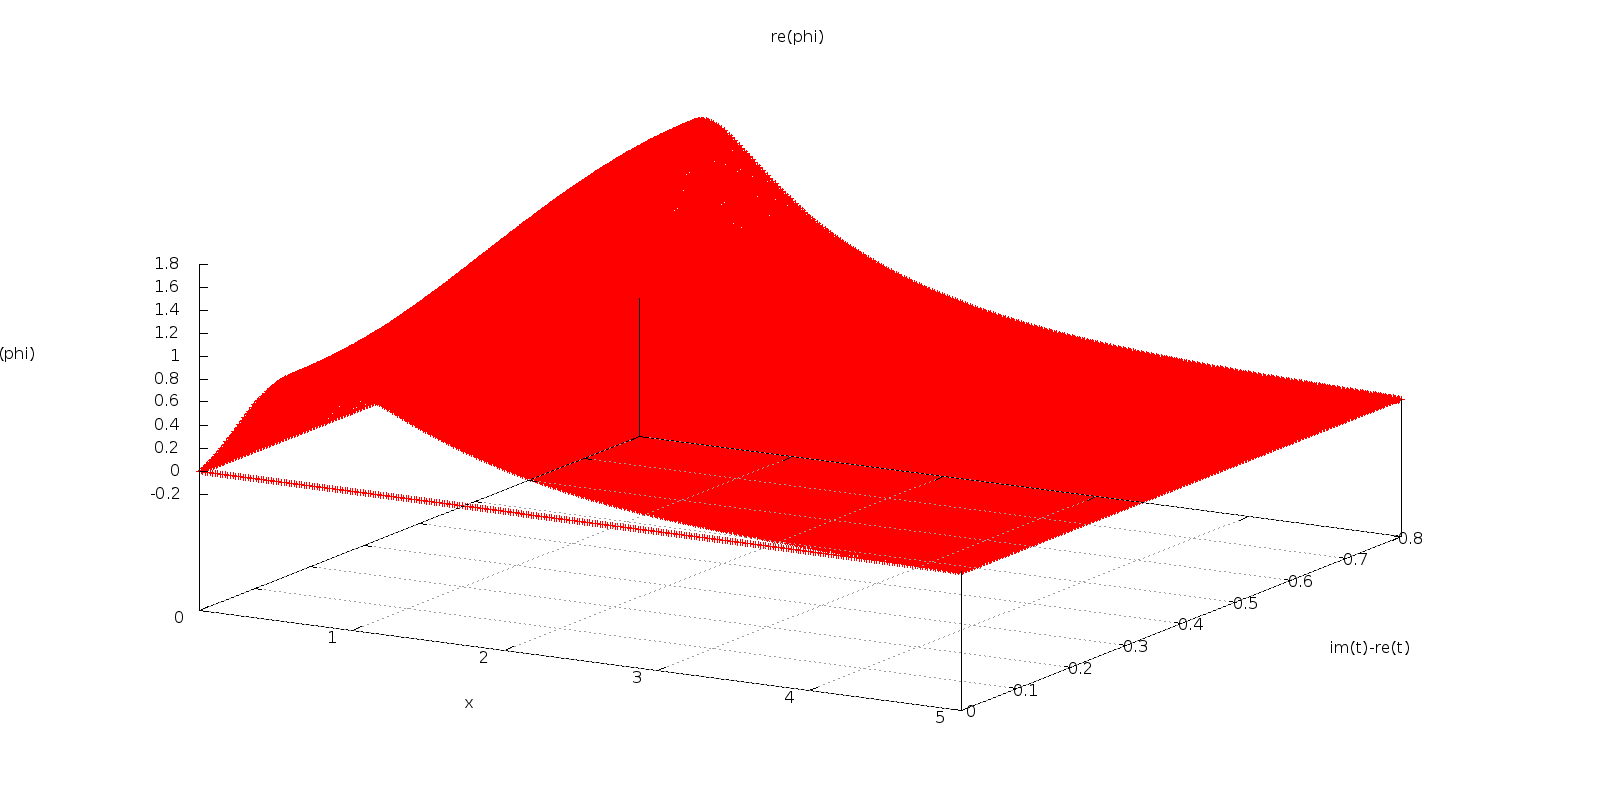
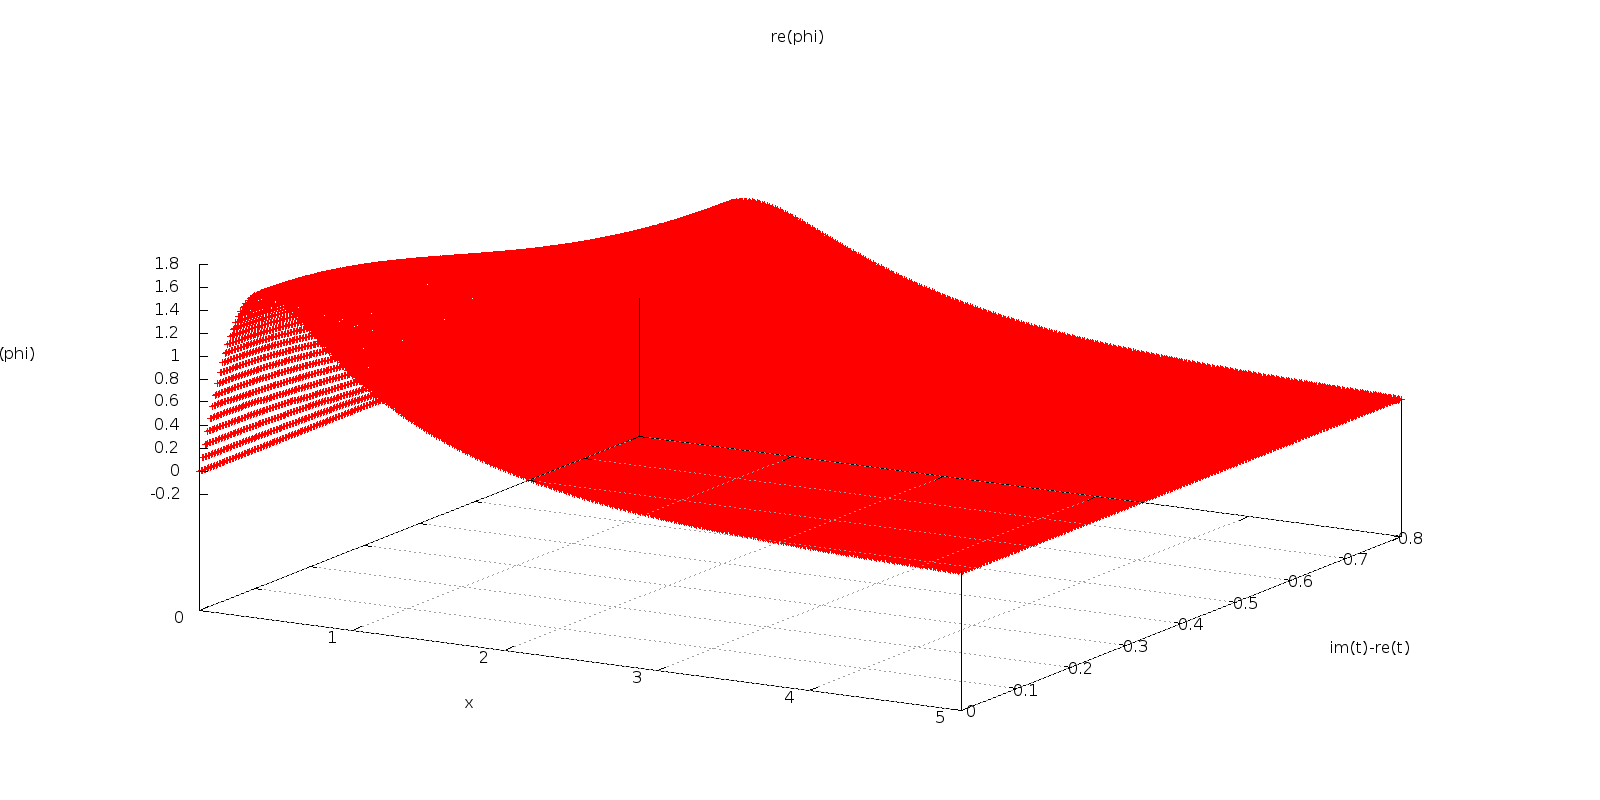
added some data

diff --git a/src/sphaleronPi.cc b/src/sphaleronPi.cc
@@ -49,10 +49,10 @@ int main(int argc, char ** argv) {
 /* ---------------------------------------------------------------------------------------------
 	1. defining main parameters
 ---------------------------------------------------------------------------------------------*/
-unsigned int 	N = 1e3, Nt = 1e3;
+unsigned int 	N = 300, Nt = 300;
 double 			r0 = 1.0e-16, r1 = 5.0, t0 = 0.0, t1 = 0.80;
 double			dr, dt;
-double			amp = 0.5;
+double			amp = -0.5;
 Parameters		ps_run;
 
 /* ---------------------------------------------------------------------------------------------
@@ -87,6 +87,7 @@ printf("\n");
 ps_run.pot = 3;
 ps_run.N = N;
 ps_run.Nb = Nt;
+ps_run.NT = 2*ps_run.Nb;
 ps_run.r0 = r0;
 ps_run.L = r1;
 ps_run.Tb = t1;
@@ -127,13 +128,14 @@ negEig *= normSphaleron/normNegEig;
 	n.b. time direction is reversed
 ---------------------------------------------------------------------------------------------*/
 
-vec phi(N*Nt);
+vec phi(2*N*Nt);
 
 for (unsigned int k=0; k<Nt; k++) {
 	for (unsigned int j=0; j<N; j++) {
 		unsigned int 	m = (Nt-1-k) + j*Nt;
 		double 			r = r0 + dr*j, t = t0 + dt*(Nt-1.0-k);
-		phi[m] = r*(sphaleron[j] + amp*cos(3.91*t)*negEig[j]);
+		phi(2*m) = r*(sphaleron(j) + amp*cos(3.91*t)*negEig(j));
+		phi(2*m+1) = 0.0;
 	}
 }
 	
@@ -145,19 +147,20 @@ Filename pngOut = datOut;
 pngOut.Suffix = ".png";
 pngOut.Directory = "pics";
 
-Parameters ps_print;
-ps_print = ps_run;
-ps_print.N = 300; // must have output N=Nb as load into pi requires this
-ps_print.Nb = 300;
-ps_print.a = (r1-r0)/(ps_print.N-1.0);
-ps_print.b = (t1-t0)/(ps_print.Nb-1.0);
+Parameters ps_save;
+ps_save = ps_run;
+ps_save.N = 300; // must have output N=Nb as load into pi requires this
+ps_save.Nb = 300;
+ps_save.NT = 2*ps_save.Nb;
+ps_save.a = (r1-r0)/(ps_save.N-1.0);
+ps_save.b = (t1-t0)/(ps_save.Nb-1.0);
 
 SaveOptions so_p;
 so_p.printMessage = true;
-so_p.vectorType = SaveOptions::realB;
+so_p.vectorType = SaveOptions::complexB;
 so_p.extras = SaveOptions::coords;
 so_p.paramsIn = ps_run;
-so_p.paramsOut = ps_print;
+so_p.paramsOut = ps_save;
 
 PlotOptions po_p;
 po_p.printMessage = true;

diff --git a/src/piEvolve.cc b/src/piEvolve.cc
@@ -501,7 +501,7 @@ else if (!testTunnel) {
 	ps_run.print();
 	
 	// constructing input to main
-	vec mainIn(ps_in.NT*ps_in.N);
+	vec mainIn(2*ps_in.NT*ps_in.N+2);
 	vec phiAOut, phiCOut;
 	Parameters ps_run_a = ps_run, ps_run_c = ps_run, ps_in_a = ps_in, ps_in_c = ps_in;
 	ps_run_a.NT = ps_run.Na+1;
@@ -514,25 +514,28 @@ else if (!testTunnel) {
 		for (unsigned int k=0; k<ps_in.N; k++) {
 			unsigned int l = j+k*ps_in.NT, m;
 			double r = ps_in.r0 + k*ps_in.a;
+			mainIn(2*l+1) = 0.0;
 			if (j<ps_in.Na) {
 				m = (ps_in.Na-j)+k*(ps_in.Na+1);
-				mainIn(l) = phiAOut(m)*r;
+				mainIn(2*l) = phiAOut(m)*r;
 			}
 			else if (j<(ps_in.Na+ps_in.Nb)) {
 				m = (j-ps_in.Na)+k*ps_in.Nb;
-				mainIn(l) = phiBC(m);
+				mainIn(2*l) = phiBC(m);
 			}
 			else {
 		        m = j - ps_in.Na - ps_in.Nb + 1 + k*(ps_in.Nc+1);
-				mainIn(l) = phiCOut(m)*r;
+				mainIn(2*l) = phiCOut(m)*r;
 			}
 		}
 	}
+	mainIn(2*ps_in.NT*ps_in.N) = 0.5;
+	mainIn(2*ps_in.NT*ps_in.N+1) = 0.5;
 	Filename mainInFile = (string)(prefix + "tp" + suffix);
 	SaveOptions so_tp;
 	so_tp.paramsIn = ps_in;
-	so_tp.paramsOut = ps_in;;
-	so_tp.vectorType = SaveOptions::real;
+	so_tp.paramsOut = ps_in;
+	so_tp.vectorType = SaveOptions::complex;
 	so_tp.extras = SaveOptions::coords;
 	so_tp.zeroModes = 0;
 	so_tp.printMessage = true;

diff --git a/src/main.cc b/src/main.cc
@@ -268,7 +268,7 @@ for (uint fileLoop=0; fileLoop<pFolder.size(); fileLoop++) {
 		SaveOptions so_simple;
 		so_simple.paramsIn = ps; so_simple.paramsOut = ps;
 		so_simple.vectorType = SaveOptions::simple;
-		so_simple.extras = SaveOptions::loc;
+		so_simple.extras = SaveOptions::none;
 		so_simple.printMessage = false;
 		{
 			Filename omegaM1F, omega0F, omega1F, omega2F, modesF, freqsF, freqsExpF; // Filename works as FilenameAttributes
@@ -418,7 +418,7 @@ for (uint fileLoop=0; fileLoop<pFolder.size(); fileLoop++) {
 			
 		//very early vector print
 		so_tp.paramsIn = ps;
-		Filename earlyPrintFile = (string)("data/"+timenumber+"mainpiE_fLoop_"+numberToString<uint>(fileLoop)\
+		Filename earlyPrintFile = (string)("data/"+timenumber+"mainpE_fLoop_"+numberToString<uint>(fileLoop)\
 				 +"_loop_"+numberToString<uint>(loop)+"_run_" + "0.dat");
 		save(earlyPrintFile,so_tp,p);
 	

diff --git a/src/plot.cc b/src/plot.cc
@@ -49,17 +49,17 @@ else
 PlotOptions po;
 po.printMessage = true;
 po.output = "gui";
-bool isMain;
 string id = f.ID;
-if (id.back()=='E') 					 id = id.substr(0,id.size()-1);
+if (id.back()=='E') id = id.substr(0,id.size()-1);
+if ((id.substr(0,4)).compare("main")==0) id = id.substr(4);
 
 if (id.compare("DDS")==0 || (id.substr(0,5)).compare("omega")==0 || (id.substr(0,5)).compare("freqs")==0 \
 	|| (id.substr(0,5)).compare("modes")==0) {
 	cerr << "cannot plot matrices" << endl;
 	return 1;	
 }
-else if (id.compare("p")==0 || id.compare("minusDS")==0 || id.compare("delta")==0) {
-	po.gp = "gp/repi_gui.gp";
+else if (id.compare("p")==0 || id.compare("pi")==0 || id.compare("minusDS")==0 || id.compare("delta")==0) {
+	po.gp = "gp/repi.gp";
 	po.style = "points";
 }
 else {

diff --git a/csrc/print.cc b/csrc/print.cc
@@ -103,6 +103,7 @@ static void saveVecB (const string& f, const SaveOptions& opts, const vec& v) {
 	else {
 		vo = v;
 	}
+	
 	fstream F;
 	F.open(f.c_str(), ios::out);
 	uint x0 = intCoord(0,1,pout.Nb);
@@ -748,7 +749,7 @@ void plot(const string& f, const PlotOptions& opts) {
 		pclose(gnuplotPipe);
 	}
 	else {
-		string commandStr = "gnuplot -e \"inFile='"+f+"'; outFile='"+output+"'; "+" style='"+style+"'\" "+opts.gp;
+		string commandStr = "gnuplot -e \"inFile='"+f+"'; outFile='"+output+"'; "+" style='"+style+"'\" "+"'"+opts.gp+"'";
 		if (output.compare("gui")==0) commandStr += " -persistent";
 		FILE * gnuplotPipe = popen(commandStr.c_str(),"w");
 		fprintf(gnuplotPipe,"%s\n"," ");

diff --git a/src/pi.cc b/src/pi.cc
@@ -361,7 +361,7 @@ for (uint loop=0; loop<opts.loops; loop++) {
 			length = (uint)(sqrt(length));
 			ps_blank.N = length;
 			ps_blank.Nb = length;
-			ps_blank.NT = 10000; // same fudge as before, so that it realises that the vector is just on BC
+			ps_blank.NT = length*4; // same fudge as before, so that it realises that the vector is just on BC
 			temp2Phi = interpolateReal(tempPhi,ps_blank,ps);
 			for (uint j=0; j<ps.N*ps.Nb; j++) {
 				p(2*j) = temp2Phi(j);

diff --git a/csrc/folder.cc b/csrc/folder.cc
@@ -163,8 +163,14 @@ void Filename::set(const string& f) {
 	}
 	if (temp.find_first_not_of("_")==0) {
 	 stop = temp.find_first_of("_.");
-	 ID = temp.substr(0,stop);
-	 temp = temp.substr(stop);
+	 if (stop==string::npos) {
+	 	ID = temp.substr(0,stop);
+	 	temp = "";
+	 }
+	 else {
+	 	ID = temp.substr(0,stop);
+	 	temp = temp.substr(stop);
+	 }
 	}
 	if (temp[0]=='_') {
 		temp = temp.substr(1);
